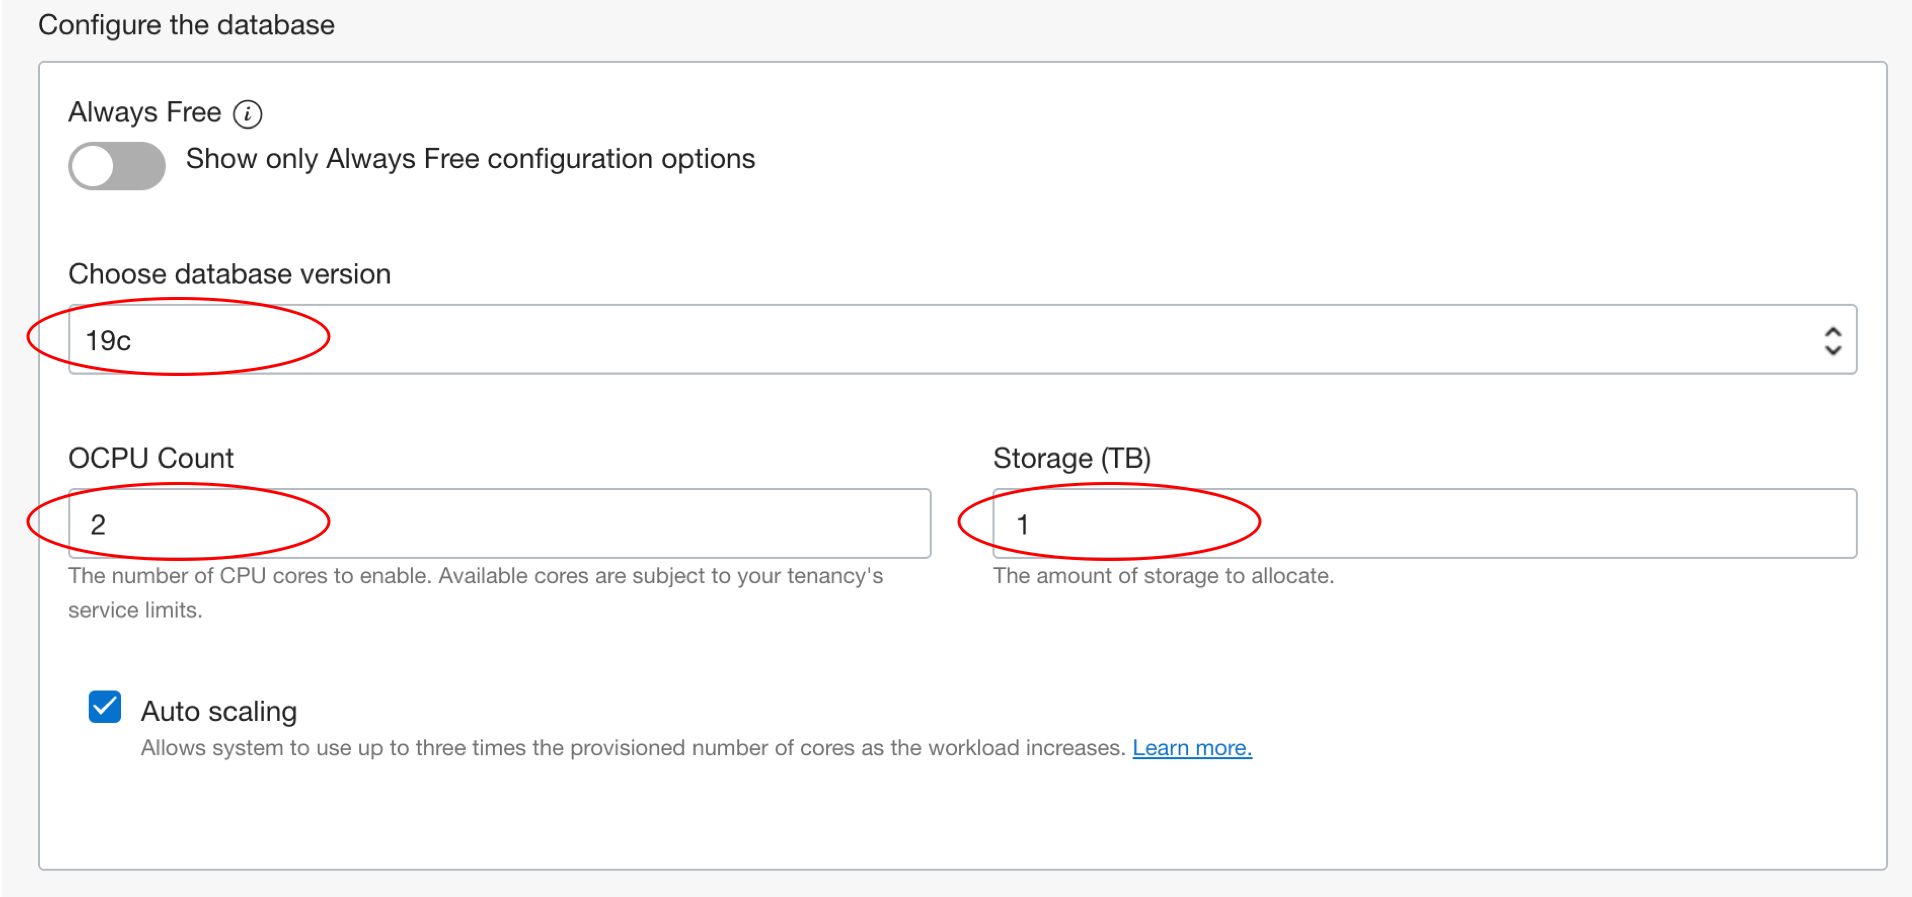
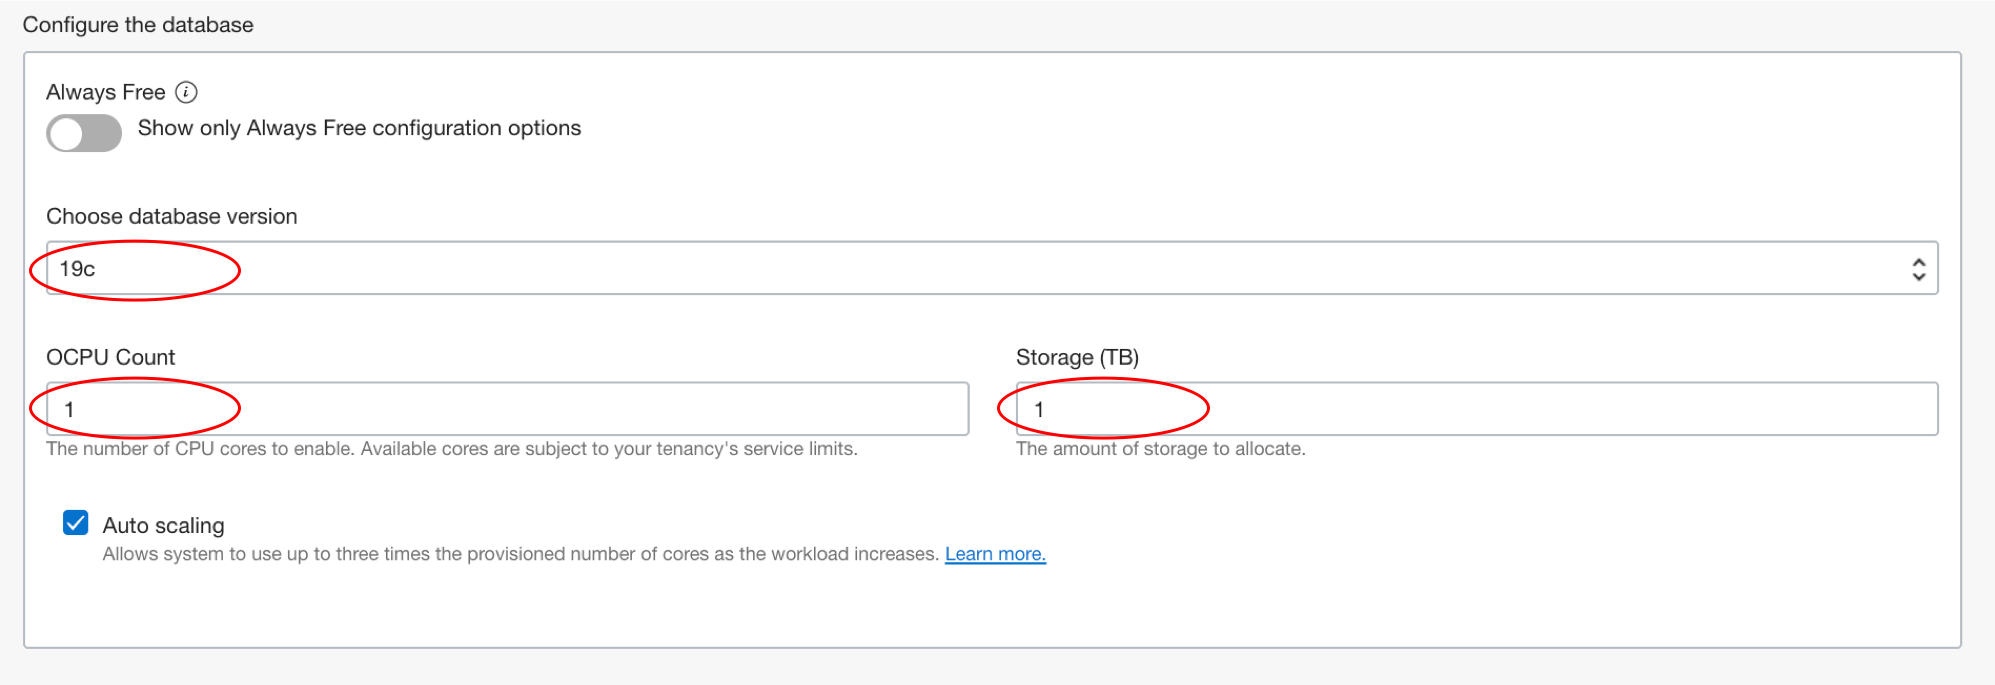
1opcu screenshot

diff --git a/3.md b/3.md
@@ -75,7 +75,7 @@ END;
 
 ## **Step 2:** Log into ***ADW*** SQL Developer Web with user ml\_user and export the machine learning model.
 
-- Go up to the URL and change the admin part of the URL to ml\_user and hit enter to log in as ml\_user.  Copy the URL to a notepad - you will need it later. 
+- Go up to the URL and change the admin part of the URL to ml\_user and hit enter to log in as ml\_user.  Copy the URL to a notepad - you will need it later.
 
   ![](./images/3/011.png  " ")
 
@@ -90,7 +90,7 @@ END;
 
   ![](./images/3/013.png  " ")
 
-- Confirm the machine learning model was built.  This would have been done in the previous lab by executing the steps in the credit scoring notebook.
+- Confirm the machine learning model was built.  This would have been done in the lab 1 by executing the steps in the credit scoring notebook.
 ```
 <copy>select * from user_mining_models;</copy>
 ```
@@ -235,11 +235,11 @@ END;
 
 - Switch browser tabs and go back to SQL Developer Web and copy the wallet to the ATP's DATA\_PUMP\_DIR.  When we create the database link in the next step this wallet will be required.
 ```
-<copy>BEGIN 
+<copy>BEGIN
      DBMS_CLOUD.GET_OBJECT(
         credential_name => 'adw_db',
         object_uri => '&lt;your object file URI&gt;',
-        directory_name => 'DATA_PUMP_DIR'); 
+        directory_name => 'DATA_PUMP_DIR');
 END;
 /</copy>
 ```
@@ -257,8 +257,8 @@ END;
 ```
 <copy>BEGIN
      DBMS_CLOUD_ADMIN.CREATE_DATABASE_LINK(
-          db_link_name => 'adwlink', 
-          hostname => '&lt;your ADW host&gt;', 
+          db_link_name => 'adwlink',
+          hostname => '&lt;your ADW host&gt;',
           port => '1522',
           service_name => '&lt;your service name&gt;',
           ssl_server_cert_dn => '&lt;your cert&gt;',
@@ -336,7 +336,7 @@ from dual;</copy>
 - To make the model prediction available to all applications we will use the Oracle Database's virtual column feature.  We'll add two new virtual columns: the prediction itself, and the probably that the prediction is correct.
 ```
 <copy>alter table credit_scoring_100k add(
-likely_good_credit_pcnt AS (round((100*(prediction_probability(n1_class_model, 'Good Credit' USING 
+likely_good_credit_pcnt AS (round((100*(prediction_probability(n1_class_model, 'Good Credit' USING
     wealth
   , customer_dmg_segment
   , income
@@ -371,4 +371,3 @@ likely_good_credit_pcnt AS (round((100*(prediction_probability(n1_class_model, '
 ```
 
   ![](./images/3/050.png  " ")
-

diff --git a/1.md b/1.md
@@ -63,7 +63,7 @@ First, we are going to create an ADWC Instance:
 
   ![](./images/1/008.png  " ")
 
-- Under `Configure the database`, leave `Choose database version` and `Storage (TB)` as it is but increase `OCPU Count` to 2.
+- Under `Configure the database`, leave `Choose database version` and `Storage (TB)` and `OCPU Count` as they are.
 
   ![](./images/1/009.png  " ")
 
@@ -101,7 +101,7 @@ we are going to very similar steps to create an Autonomous DataBase
 
     ![](./images/1/017.png  " ")
 
-- Under `Configure the database`, leave `Choose database version` and `Storage (TB)` as it is but increase `OCPU Count` to 2.
+- Under `Configure the database`, leave `Choose database version` and `Storage (TB)` and `OCPU Count` to how they are.
 
     ![](./images/1/009.png  " ")
 
@@ -367,7 +367,7 @@ grant select any table to public;</copy>
 
   ![](./images/1/058.png  " ")
 
-  - Enter the following code snippit and then execute. Make sure to replace the file_uri_list with the **URL Path** you copied earlier from the Bucket created in Object Storage.
+  - Enter the following code snippit and then execute. Make sure to replace the file\_uri\_list with the **URL Path** you copied earlier from the Bucket created in Object Storage.
 
   ```
   <copy>

diff --git a/2.md b/2.md
@@ -46,7 +46,7 @@ In this lab you will use Apache Zeppelin notebooks to do this work. The lab will
 
   ![](./images/2/009.png  " ")
 
-- Create a new ML user. Enter user `adwc_ws` and create a password.
+- Create a new ML user. Enter user `ml_user` and create a password.
 
   ![](./images/2/010.png  " ")
 
@@ -148,5 +148,3 @@ The rest of this lab will be done interactively in the notebook.  The following 
 ![](./images/2/072.png  " ")
 
 ![](./images/2/073.png  " ")
-
-
